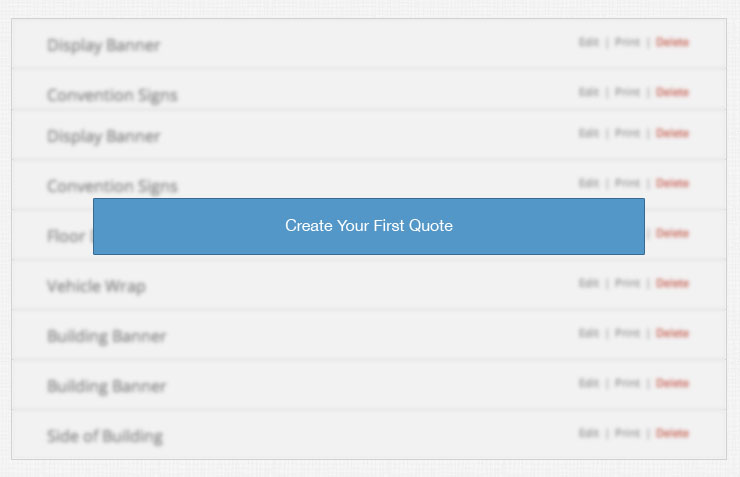
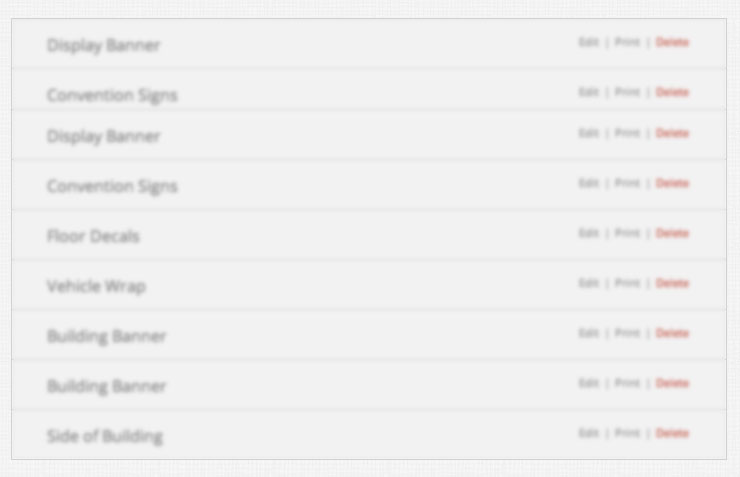
Dash

Changed region(s): [[0.1243, 0.4109, 0.8703, 0.5577]]

diff --git a/page-dashboard.php b/page-dashboard.php
@@ -132,7 +132,7 @@ Template Name: Dashboard
 			<?php else : ?>
 
 				<a href="/dashboard/saved-quotes/"><img class="empty-quotes" src="<?php echo get_template_directory_uri(); ?>/_/inc/images/empty-quotes.jpg"></a>
-
+				<a href="/dashboard/saved-quotes/" class="secondary_button empty-quotes-link">Create Your First Quote</a>
 		<?php endif; ?>
 
 			
